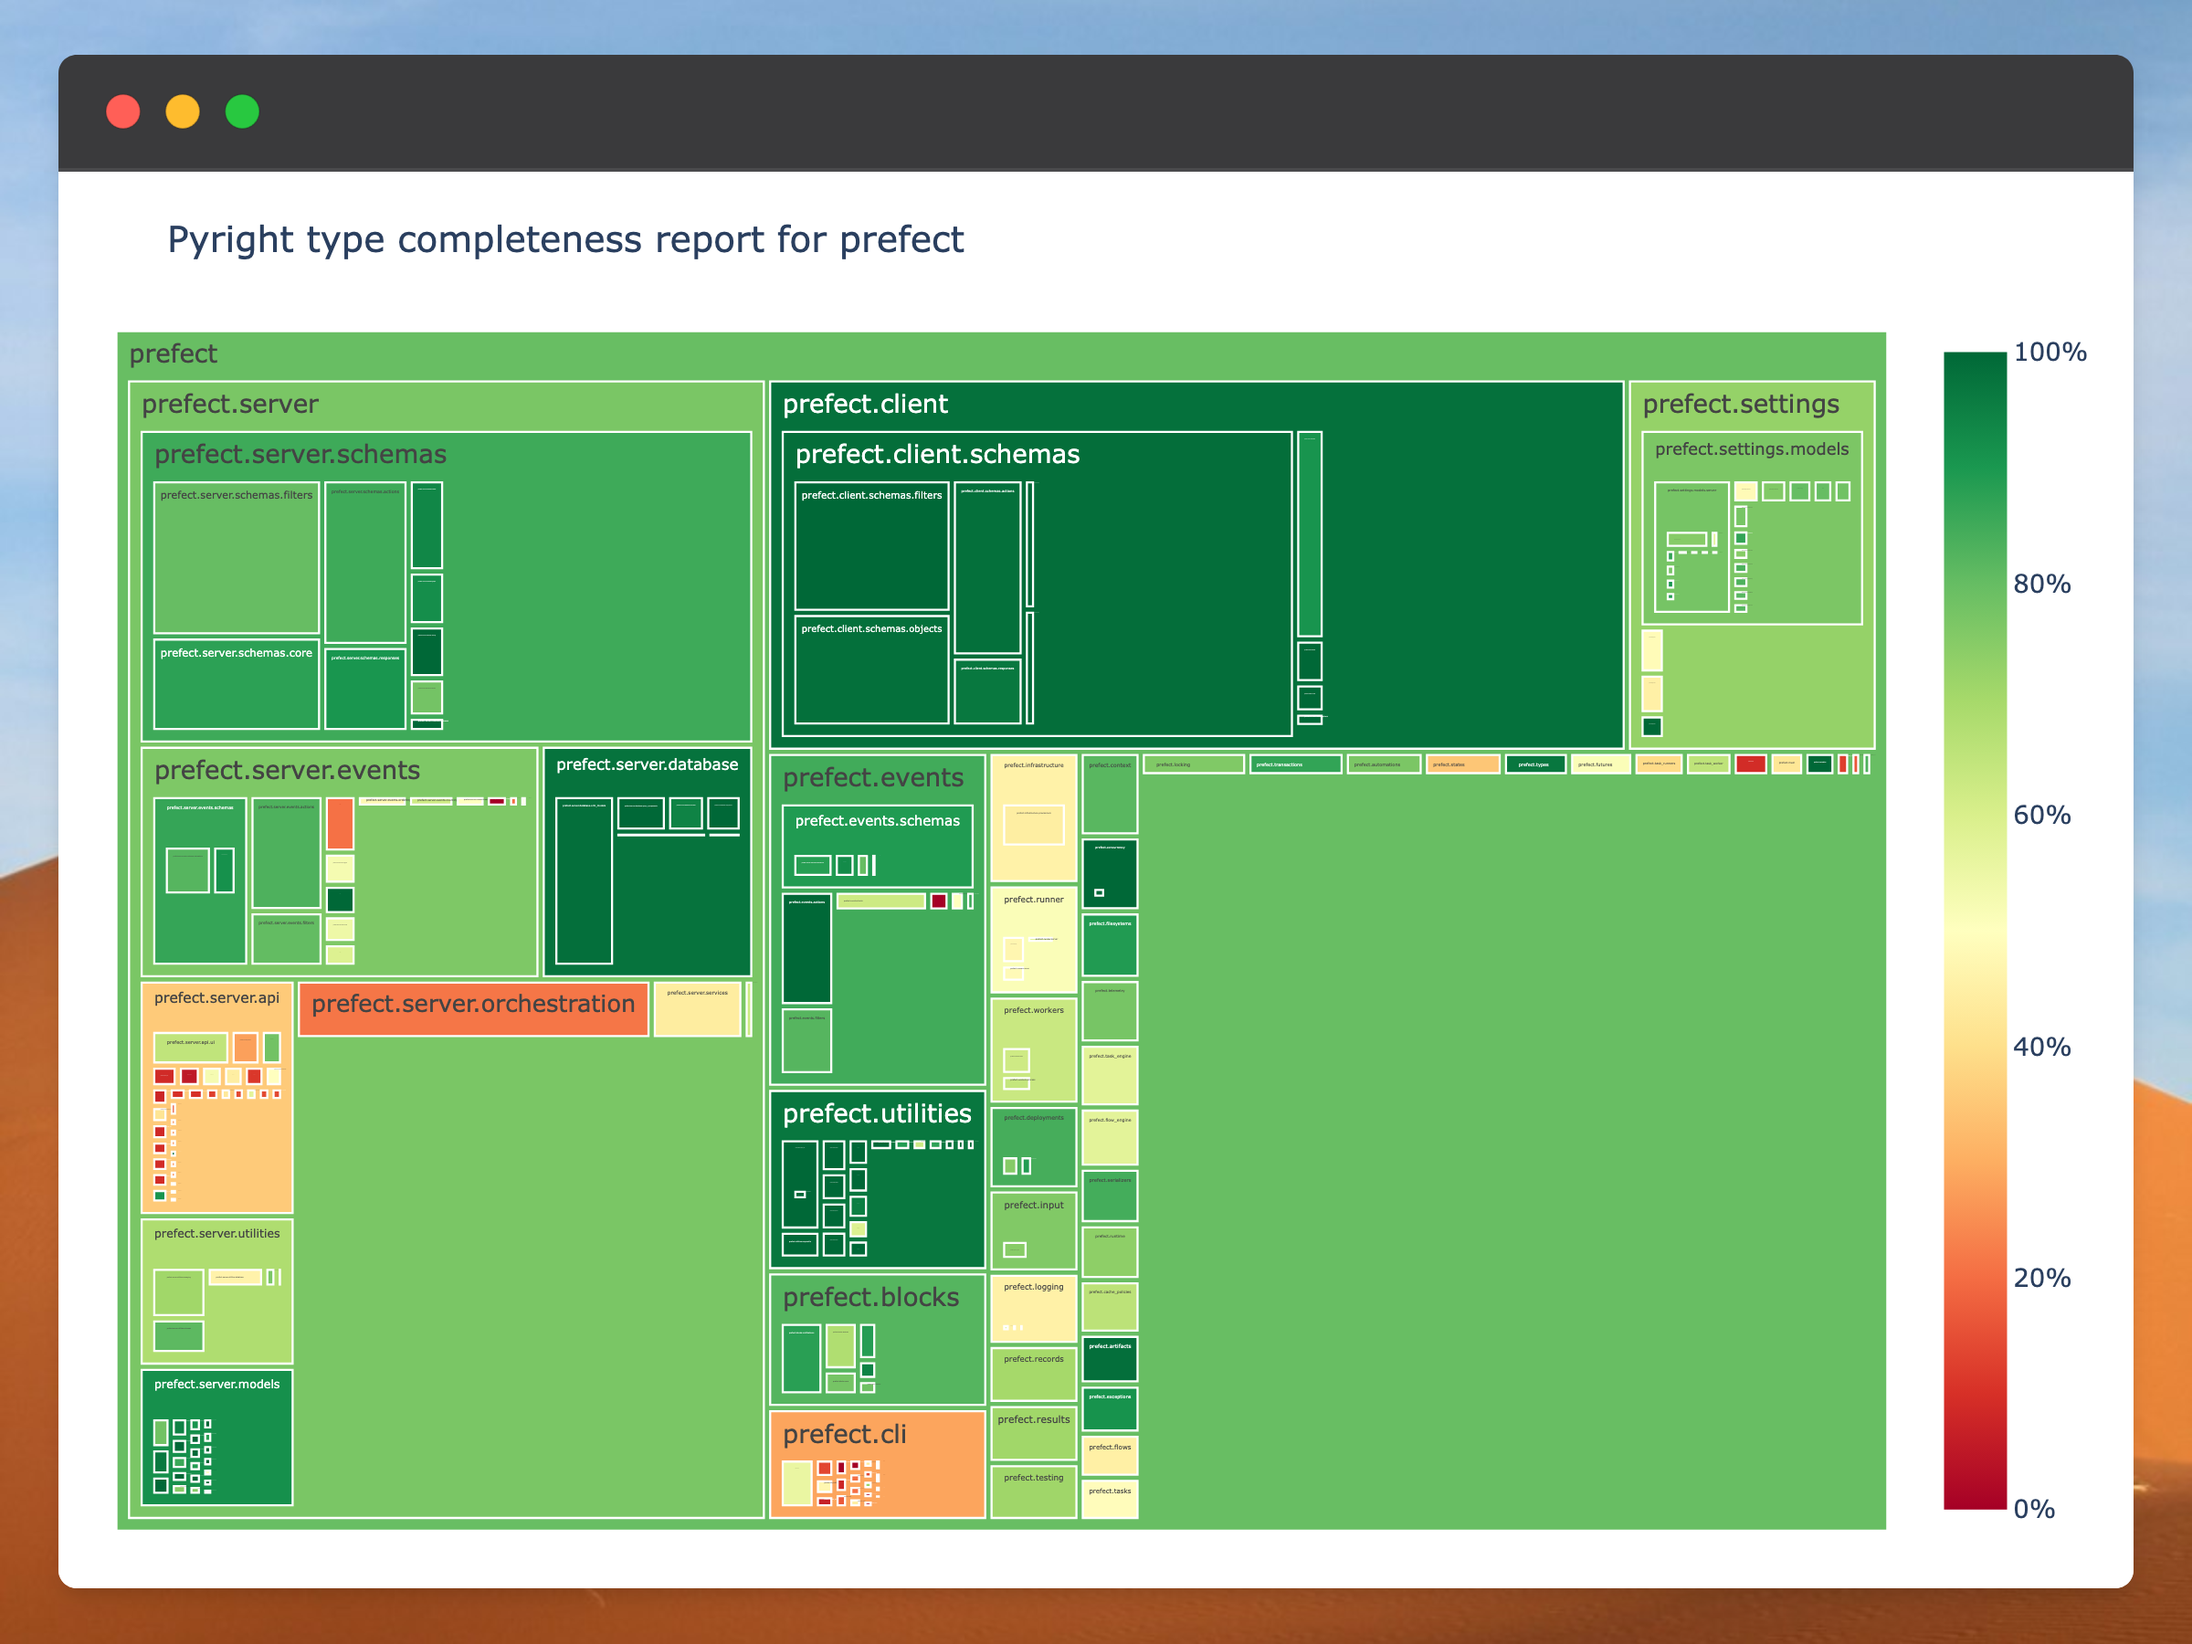
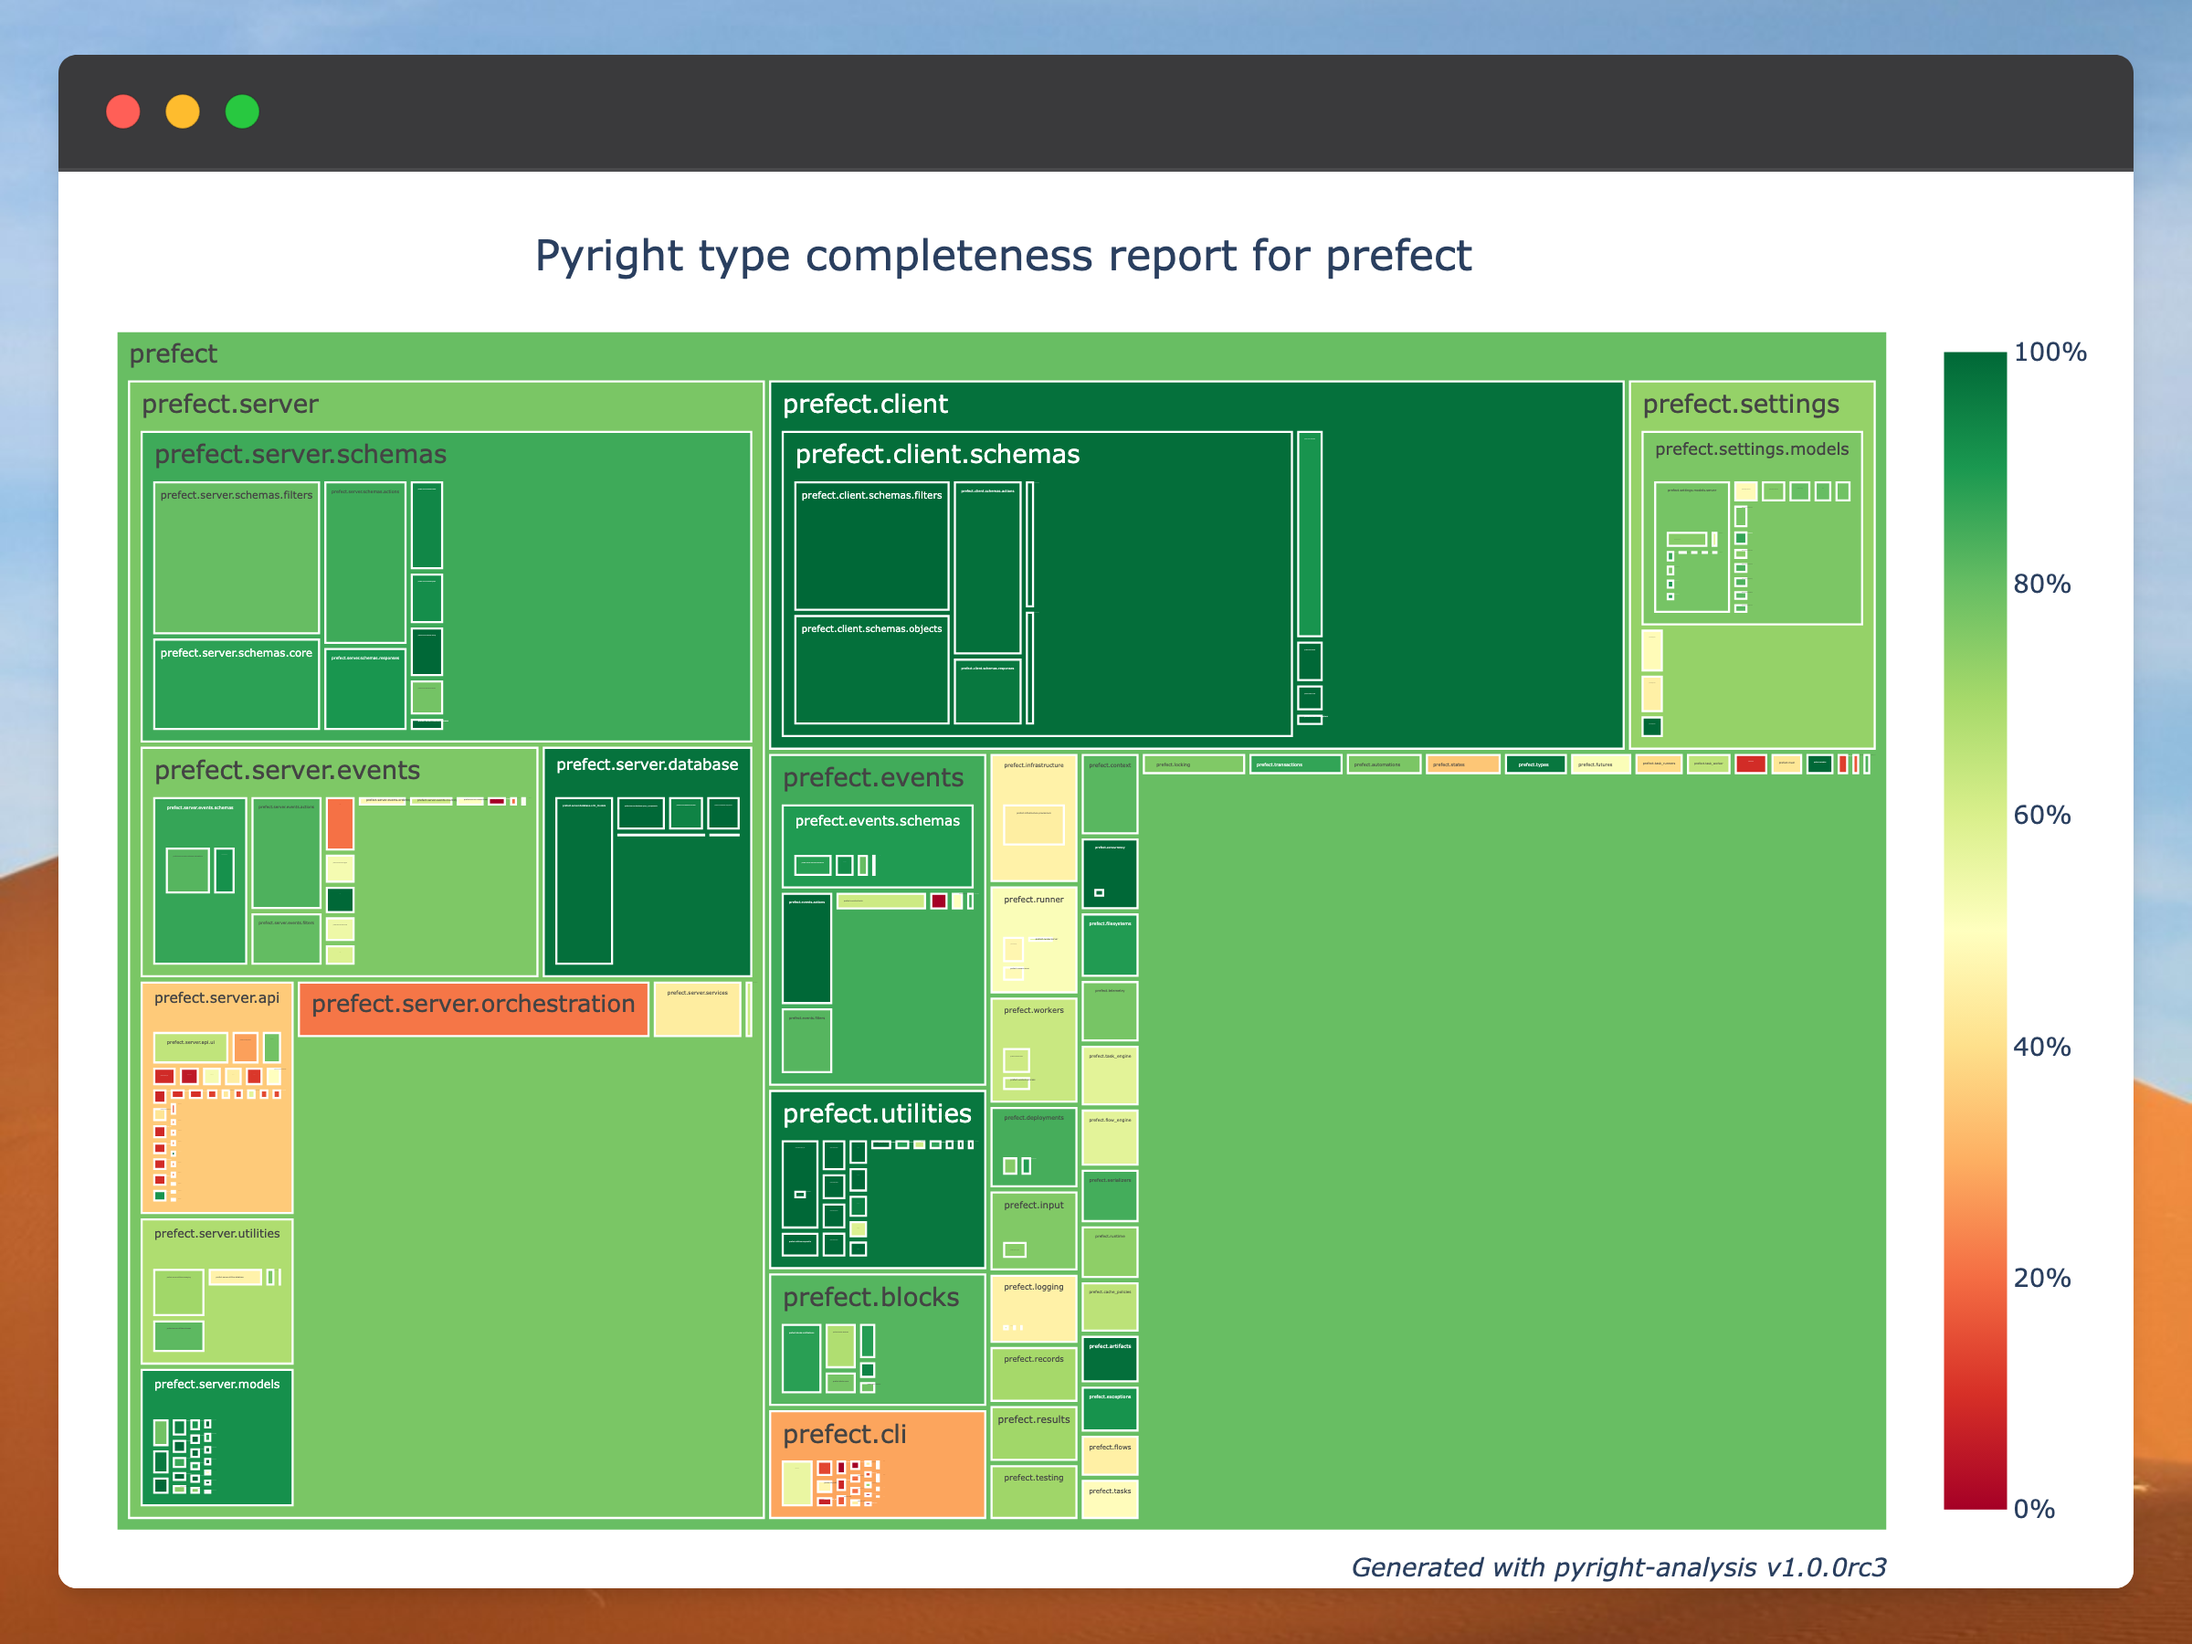
feat: Add a footer linking to the project
To position the footer correctly, the graph Title element has been
repurposed for this and an annotation has been added to take over the
placement of the title.

Changed region(s): [[0.0625, 0.1244, 0.5625, 0.1867], [0.625, 0.9333, 0.8438, 0.9644], [0.625, 0.1244, 0.6562, 0.1867]]

diff --git a/src/pyright_analysis/treemap.py b/src/pyright_analysis/treemap.py
@@ -2,6 +2,7 @@ from typing import Any, NamedTuple, Self
 
 import plotly.graph_objects as go  # pyright: ignore[reportMissingTypeStubs]
 
+from ._utils import project_link
 from .schema import Symbol, SymbolName, TypeCompletenessReport
 
 
@@ -54,10 +55,15 @@ def _collate(report: TypeCompletenessReport) -> dict[SymbolName, ModuleInfo]:
     return per_module
 
 
-def to_treemap(report: TypeCompletenessReport) -> go.Figure:
+def to_treemap(
+    report: TypeCompletenessReport, generator_link: str | None = None
+) -> go.Figure:
     per_module = _collate(report)
     ordered = sorted(per_module)
     info = [per_module[name] for name in ordered]
+
+    title = f"Pyright type completeness report for {report.package_name}"
+    attribution = f"Generated with {generator_link or project_link()}"
 
     return go.Figure(
         data=go.Treemap(
@@ -91,12 +97,37 @@ def to_treemap(report: TypeCompletenessReport) -> go.Figure:
         ),
         layout=go.Layout(
             margin=go.layout.Margin(t=75, l=25, r=25, b=25),
-            title=go.layout.Title(
-                text=f"Pyright type completeness report for {report.package_name}"
-            ),
             coloraxis=go.layout.Coloraxis(
                 colorbar=go.layout.coloraxis.ColorBar(tickformat=".0%"),
                 colorscale="rdylgn",
+            ),
+            # layout trick from plotly/plotly.py#4873, putting the title in
+            # an annotation and the footnote in a title gives you much better
+            # control over the attribution placement.
+            annotations=[
+                go.layout.Annotation(
+                    showarrow=False,
+                    text=title,
+                    yref="paper",
+                    yanchor="bottom",
+                    y=1.04,
+                    xref="paper",
+                    xanchor="center",
+                    x=0.5,
+                    font=go.layout.annotation.Font(size=20),
+                )
+            ],
+            legend=go.layout.Legend(
+                yanchor="top", y=1, xanchor="right", x=1, borderwidth=1
+            ),
+            title=go.layout.Title(
+                text=attribution,
+                yref="container",
+                y=0.005,
+                xref="paper",
+                xanchor="right",
+                x=1,
+                font=go.layout.title.Font(size=12, style="italic"),
             ),
         ),
     )

diff --git a/src/pyright_analysis/_utils.py b/src/pyright_analysis/_utils.py
@@ -1,0 +1,14 @@
+from collections.abc import Iterator
+from importlib.metadata import metadata
+
+
+def project_link() -> str:
+    """The name of this project as a HTML hyperlink"""
+    md = metadata("pyright-analysis")
+    entries: Iterator[tuple[str, str, str]] = (
+        entry.partition(",") for entry in md.get_all("Project-URL", [])
+    )
+    github_link = next(
+        url.strip() for label, _, url in entries if label.strip().lower() == "github"
+    )
+    return f'<a href="{github_link}">{md["Name"]} v{md["Version"]}</a>'

diff --git a/tests/test_utils.py b/tests/test_utils.py
@@ -1,0 +1,9 @@
+from pyright_analysis import __version__
+from pyright_analysis._utils import project_link
+
+
+def test_project_link() -> None:
+    assert project_link() == (
+        '<a href="https://github.com/mjpieters/pyright-analysis">pyright-analysis '
+        f"v{__version__}</a>"
+    )
